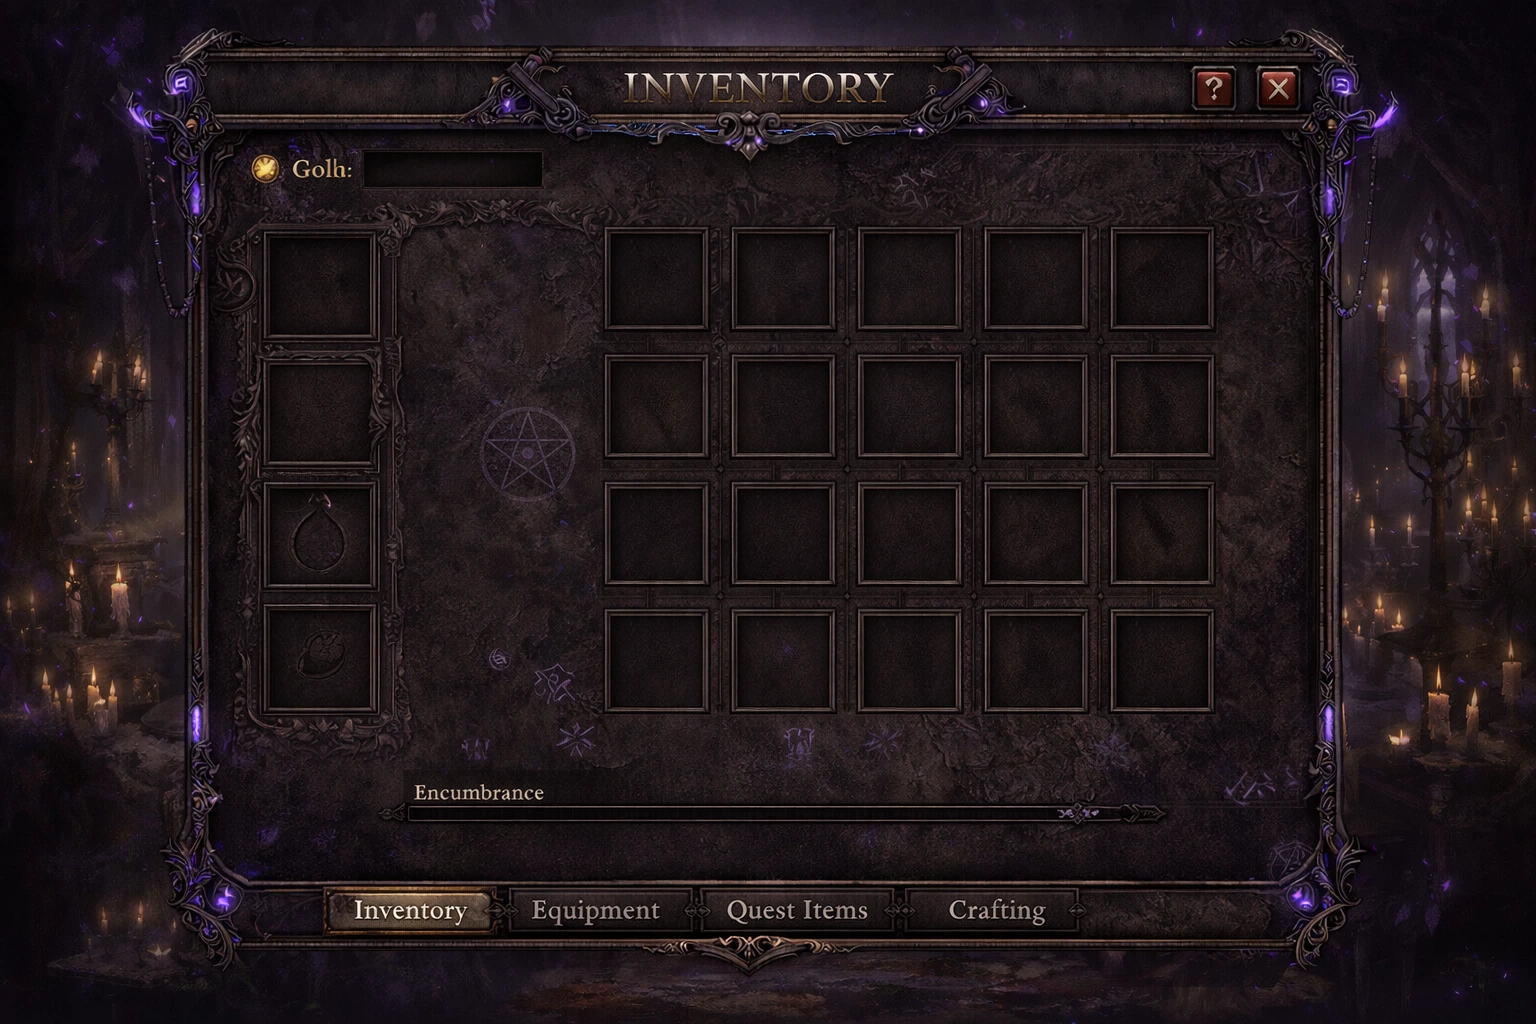
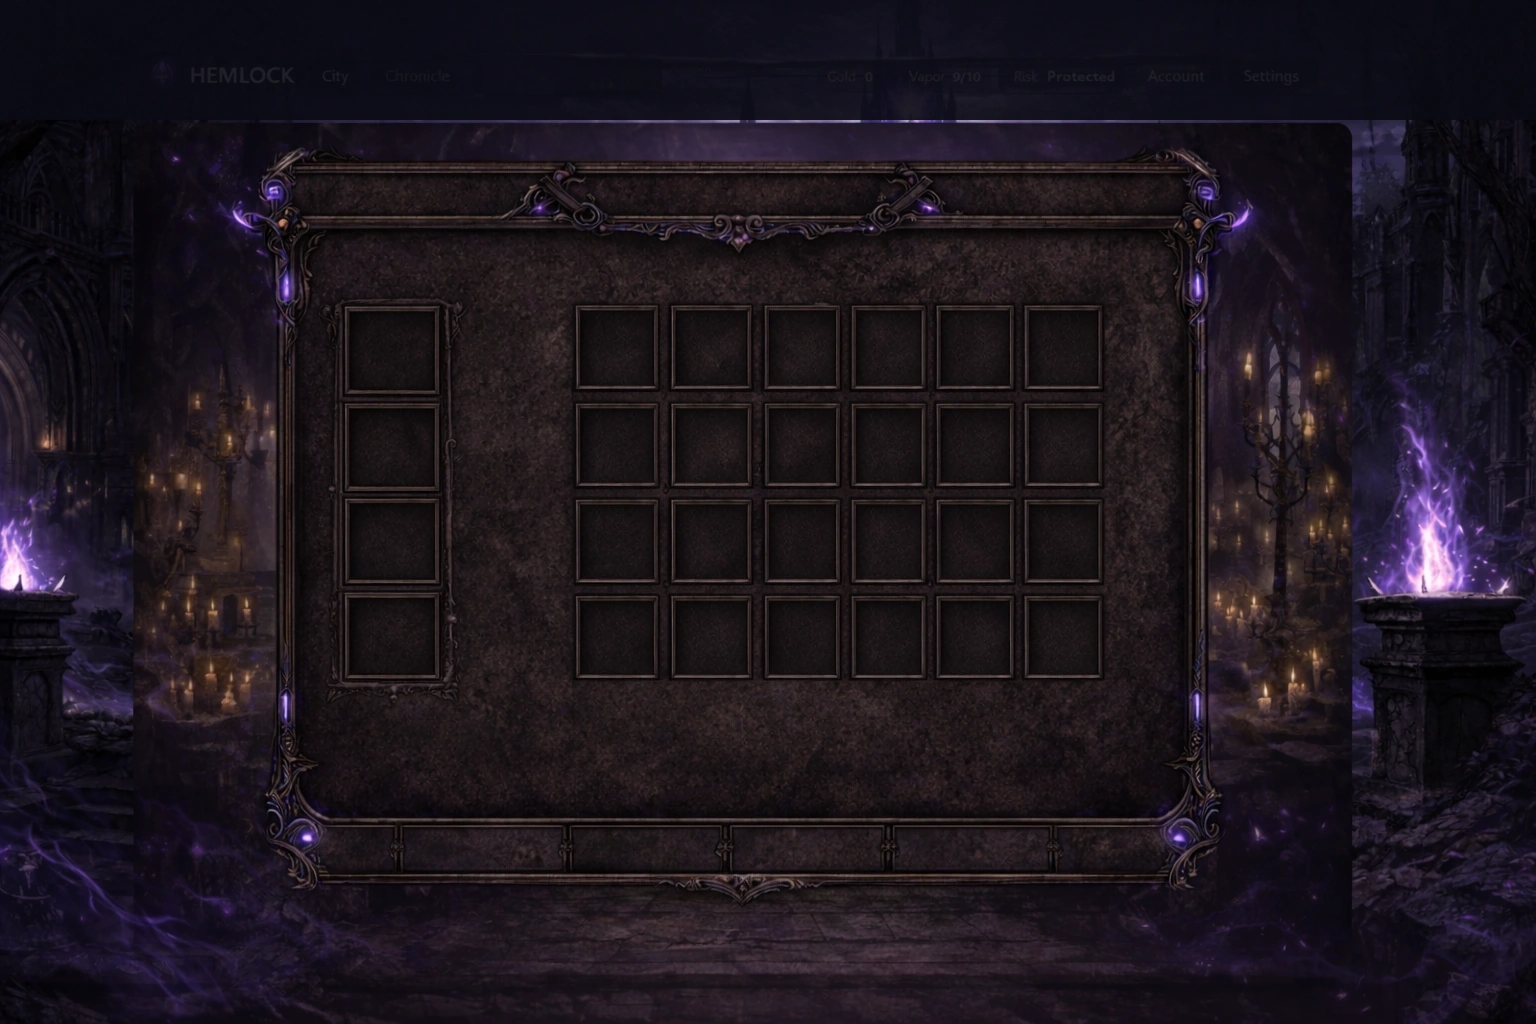
Add post-login city background

Changed region(s): [[0.0, 0.0, 1.0, 1.0], [0.3125, 0.625, 0.3438, 0.6562], [0.2812, 0.5938, 0.3125, 0.625]]

diff --git a/src/app/Inventory.tsx b/src/app/Inventory.tsx
@@ -1,4 +1,5 @@
 import { useEffect, useMemo, useState } from "react";
+import { useNavigate } from "react-router-dom";
 import PageShell from "../components/PageShell";
 import TopBar from "../components/TopBar";
 import ResourceBar from "../components/ResourceBar";
@@ -69,6 +70,7 @@ function shortLabel(name: string) {
 }
 
 export default function Inventory() {
+  const navigate = useNavigate();
   const [resources, setResources] = useState({ gold: 0, xp: 0, vigor: 0, vigor_cap: 10, vigor_regen_minutes: 15 });
   const [risk, setRisk] = useState("Protected");
   const [inv, setInv] = useState<InventoryState>({ player_id: "offline-player", max_slots: 30, items: [] });
@@ -118,6 +120,16 @@ export default function Inventory() {
         <ScreenFrame src={artpack.screens.inventory}>
           {/* All coordinates are percentage-based over the frame */}
           <div className="absolute inset-0">
+            <button
+              type="button"
+              aria-label="Close"
+              onClick={() => navigate("/profile")}
+              style={{ left: "90.6%", top: "11.7%", width: "3.2%", height: "4.8%" }}
+              className="absolute grid place-items-center rounded-md text-zinc-100/90 transition hover:bg-violet-500/10 hover:ring-2 hover:ring-violet-400/40 focus:outline-none focus:ring-2 focus:ring-violet-400/70"
+            >
+              <span className="text-lg leading-none">×</span>
+            </button>
+
             {/* Clickable slots */}
             {SLOT_RECTS.map((rect, idx) => {
               const it = visibleItems[idx] ?? null;
@@ -146,6 +158,7 @@ export default function Inventory() {
                       "absolute rounded-md",
                       "focus:outline-none focus:ring-2 focus:ring-violet-400/70",
                       isSelected ? "ring-2 ring-violet-400/60" : "hover:ring-1 hover:ring-violet-300/40",
+                      rect.kind === "side" ? "ring-1 ring-violet-400/15" : "",
                     ].join(" ")}
                     style={{
                       left: `${rect.left}%`,
@@ -267,13 +280,13 @@ export default function Inventory() {
                 <button type="button" className="hx-btn text-sm px-4 py-2" aria-current="page">
                   Inventory
                 </button>
-                <button type="button" className="hx-btn text-sm px-4 py-2" onClick={() => (window.location.href = "/equipment")}>
+                <button type="button" className="hx-btn text-sm px-4 py-2" onClick={() => navigate("/equipment")}>
                   Equipment
                 </button>
-                <button type="button" className="hx-btn text-sm px-4 py-2" onClick={() => (window.location.href = "/quests")}>
+                <button type="button" className="hx-btn text-sm px-4 py-2" onClick={() => navigate("/quests")}>
                   Quest Items
                 </button>
-                <button type="button" className="hx-btn text-sm px-4 py-2" onClick={() => (window.location.href = "/crafting")}>
+                <button type="button" className="hx-btn text-sm px-4 py-2" onClick={() => navigate("/crafting")}>
                   Crafting
                 </button>
               </div>
